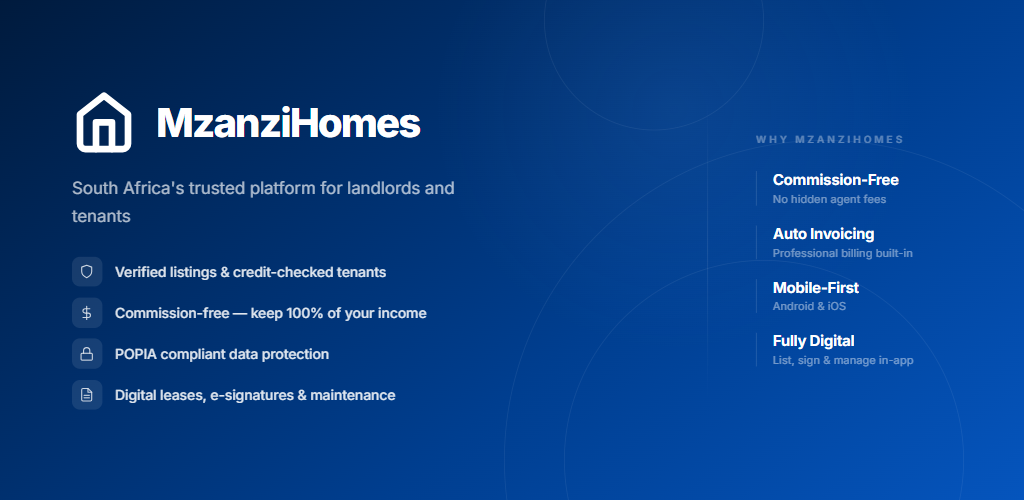
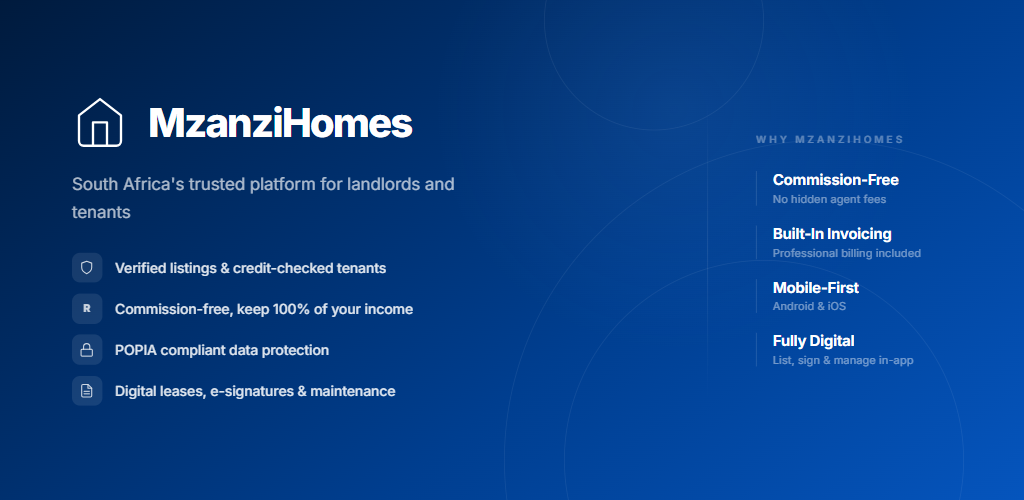
feat(play-store): finalize feature graphic and add tablet screenshots
- Feature graphic: thin logo stroke, plain R icon for commission-free,
  Built-In Invoicing label, remove em dash from commission text
- Add 7-inch tablet screenshots (1080x1920) — 5 screens
- Add 10-inch tablet screenshots (1200x2133) — 5 screens

diff --git a/docs/play-store/feature-graphic.html b/docs/play-store/feature-graphic.html
@@ -29,7 +29,7 @@
     .logo-icon{
       width:56px;height:56px;display:flex;align-items:center;justify-content:center;flex-shrink:0
     }
-    .logo-icon svg{width:56px;height:56px;stroke:white;fill:none;stroke-width:1.5;stroke-linecap:round;stroke-linejoin:round}
+    .logo-icon svg{width:56px;height:56px;stroke:white;fill:none;stroke-width:1.0;stroke-linecap:round;stroke-linejoin:round}
     .app-name{font-size:40px;font-weight:800;letter-spacing:-1.8px;line-height:1}
 
     .tagline{
@@ -91,9 +91,9 @@
         </div>
         <div class="feat">
           <div class="feat-icon">
-            <svg viewBox="0 0 24 24"><line x1="12" y1="1" x2="12" y2="23"/><path d="M17 5H9.5a3.5 3.5 0 0 0 0 7h5a3.5 3.5 0 0 1 0 7H6"/></svg>
+            <svg viewBox="0 0 24 24"><text x="12" y="17" text-anchor="middle" font-size="17" font-weight="800" style="fill:rgba(255,255,255,0.9);stroke:none" font-family="Inter,Arial,sans-serif">R</text></svg>
           </div>
-          Commission-free — keep 100% of your income
+          Commission-free, keep 100% of your income
         </div>
         <div class="feat">
           <div class="feat-icon">
@@ -118,8 +118,8 @@
           <div class="hl-label">No hidden agent fees</div>
         </div>
         <div class="hl">
-          <div class="hl-val">Auto Invoicing</div>
-          <div class="hl-label">Professional billing built-in</div>
+          <div class="hl-val">Built-In Invoicing</div>
+          <div class="hl-label">Professional billing included</div>
         </div>
         <div class="hl">
           <div class="hl-val">Mobile-First</div>

diff --git a/docs/play-store/screenshots/tablet10-4.html b/docs/play-store/screenshots/tablet10-4.html
@@ -1,0 +1,16 @@
+<!DOCTYPE html><html lang="en"><head><meta charset="UTF-8"/>
+<link href="https://fonts.googleapis.com/css2?family=Inter:wght@400;600;700;800&display=swap" rel="stylesheet">
+<style>
+*,*::before,*::after{box-sizing:border-box;margin:0;padding:0}
+body{width:1200px;height:2133px;overflow:hidden;background:linear-gradient(160deg,hsl(214,100%,14%) 0%,hsl(214,100%,32%) 100%);font-family:'Inter',-apple-system,sans-serif;display:flex;flex-direction:column;align-items:center;justify-content:center;padding:100px 80px}
+.caption{color:white;font-size:56px;font-weight:800;text-align:center;line-height:1.15;margin-bottom:64px;letter-spacing:-2px;max-width:1000px}
+.tablet{width:620px;background:#0a0a0a;border-radius:42px;padding:12px;box-shadow:0 80px 180px rgba(0,0,0,0.65),0 0 0 1.5px rgba(255,255,255,0.08),inset 0 0 0 1px rgba(255,255,255,0.04);position:relative}
+.camera{position:absolute;top:20px;left:50%;transform:translateX(-50%);width:12px;height:12px;background:#1a1a1a;border-radius:50%;z-index:10}
+.screen{border-radius:32px;overflow:hidden;width:100%}
+.screen img{width:100%;display:block}
+.brand{color:rgba(255,255,255,0.3);font-size:18px;font-weight:700;margin-top:52px;letter-spacing:3px;text-transform:uppercase}
+</style></head><body>
+<div class="caption">Manage all your properties in one place</div>
+<div class="tablet"><div class="camera"></div><div class="screen"><img src="raw-3-dashboard.png"/></div></div>
+<div class="brand">MzanziHomes</div>
+</body></html>

diff --git a/docs/play-store/screenshots/tablet7-4.html b/docs/play-store/screenshots/tablet7-4.html
@@ -1,0 +1,16 @@
+<!DOCTYPE html><html lang="en"><head><meta charset="UTF-8"/>
+<link href="https://fonts.googleapis.com/css2?family=Inter:wght@400;600;700;800&display=swap" rel="stylesheet">
+<style>
+*,*::before,*::after{box-sizing:border-box;margin:0;padding:0}
+body{width:1080px;height:1920px;overflow:hidden;background:linear-gradient(160deg,hsl(214,100%,14%) 0%,hsl(214,100%,32%) 100%);font-family:'Inter',-apple-system,sans-serif;display:flex;flex-direction:column;align-items:center;justify-content:center;padding:80px 60px}
+.caption{color:white;font-size:48px;font-weight:800;text-align:center;line-height:1.15;margin-bottom:56px;letter-spacing:-2px;max-width:900px}
+.tablet{width:520px;background:#0a0a0a;border-radius:36px;padding:10px;box-shadow:0 60px 140px rgba(0,0,0,0.65),0 0 0 1.5px rgba(255,255,255,0.08),inset 0 0 0 1px rgba(255,255,255,0.04);position:relative}
+.camera{position:absolute;top:18px;left:50%;transform:translateX(-50%);width:10px;height:10px;background:#1a1a1a;border-radius:50%;z-index:10}
+.screen{border-radius:28px;overflow:hidden;width:100%}
+.screen img{width:100%;display:block}
+.brand{color:rgba(255,255,255,0.3);font-size:16px;font-weight:700;margin-top:44px;letter-spacing:3px;text-transform:uppercase}
+</style></head><body>
+<div class="caption">Manage all your properties in one place</div>
+<div class="tablet"><div class="camera"></div><div class="screen"><img src="raw-3-dashboard.png"/></div></div>
+<div class="brand">MzanziHomes</div>
+</body></html>

diff --git a/docs/play-store/screenshots/tablet10-3.html b/docs/play-store/screenshots/tablet10-3.html
@@ -1,0 +1,16 @@
+<!DOCTYPE html><html lang="en"><head><meta charset="UTF-8"/>
+<link href="https://fonts.googleapis.com/css2?family=Inter:wght@400;600;700;800&display=swap" rel="stylesheet">
+<style>
+*,*::before,*::after{box-sizing:border-box;margin:0;padding:0}
+body{width:1200px;height:2133px;overflow:hidden;background:linear-gradient(160deg,hsl(214,100%,14%) 0%,hsl(214,100%,32%) 100%);font-family:'Inter',-apple-system,sans-serif;display:flex;flex-direction:column;align-items:center;justify-content:center;padding:100px 80px}
+.caption{color:white;font-size:56px;font-weight:800;text-align:center;line-height:1.15;margin-bottom:64px;letter-spacing:-2px;max-width:1000px}
+.tablet{width:620px;background:#0a0a0a;border-radius:42px;padding:12px;box-shadow:0 80px 180px rgba(0,0,0,0.65),0 0 0 1.5px rgba(255,255,255,0.08),inset 0 0 0 1px rgba(255,255,255,0.04);position:relative}
+.camera{position:absolute;top:20px;left:50%;transform:translateX(-50%);width:12px;height:12px;background:#1a1a1a;border-radius:50%;z-index:10}
+.screen{border-radius:32px;overflow:hidden;width:100%}
+.screen img{width:100%;display:block}
+.brand{color:rgba(255,255,255,0.3);font-size:18px;font-weight:700;margin-top:52px;letter-spacing:3px;text-transform:uppercase}
+</style></head><body>
+<div class="caption">Everything you need to decide</div>
+<div class="tablet"><div class="camera"></div><div class="screen"><img src="raw-2-property-detail.png"/></div></div>
+<div class="brand">MzanziHomes</div>
+</body></html>

diff --git a/docs/play-store/screenshots/tablet10-1.html b/docs/play-store/screenshots/tablet10-1.html
@@ -1,0 +1,16 @@
+<!DOCTYPE html><html lang="en"><head><meta charset="UTF-8"/>
+<link href="https://fonts.googleapis.com/css2?family=Inter:wght@400;600;700;800&display=swap" rel="stylesheet">
+<style>
+*,*::before,*::after{box-sizing:border-box;margin:0;padding:0}
+body{width:1200px;height:2133px;overflow:hidden;background:linear-gradient(160deg,hsl(214,100%,14%) 0%,hsl(214,100%,32%) 100%);font-family:'Inter',-apple-system,sans-serif;display:flex;flex-direction:column;align-items:center;justify-content:center;padding:100px 80px}
+.caption{color:white;font-size:56px;font-weight:800;text-align:center;line-height:1.15;margin-bottom:64px;letter-spacing:-2px;max-width:1000px}
+.tablet{width:620px;background:#0a0a0a;border-radius:42px;padding:12px;box-shadow:0 80px 180px rgba(0,0,0,0.65),0 0 0 1.5px rgba(255,255,255,0.08),inset 0 0 0 1px rgba(255,255,255,0.04);position:relative}
+.camera{position:absolute;top:20px;left:50%;transform:translateX(-50%);width:12px;height:12px;background:#1a1a1a;border-radius:50%;z-index:10}
+.screen{border-radius:32px;overflow:hidden;width:100%}
+.screen img{width:100%;display:block}
+.brand{color:rgba(255,255,255,0.3);font-size:18px;font-weight:700;margin-top:52px;letter-spacing:3px;text-transform:uppercase}
+</style></head><body>
+<div class="caption">Find your perfect home in South Africa</div>
+<div class="tablet"><div class="camera"></div><div class="screen"><img src="raw-0-home.png"/></div></div>
+<div class="brand">MzanziHomes</div>
+</body></html>

diff --git a/docs/play-store/screenshots/tablet10-2.html b/docs/play-store/screenshots/tablet10-2.html
@@ -1,0 +1,16 @@
+<!DOCTYPE html><html lang="en"><head><meta charset="UTF-8"/>
+<link href="https://fonts.googleapis.com/css2?family=Inter:wght@400;600;700;800&display=swap" rel="stylesheet">
+<style>
+*,*::before,*::after{box-sizing:border-box;margin:0;padding:0}
+body{width:1200px;height:2133px;overflow:hidden;background:linear-gradient(160deg,hsl(214,100%,14%) 0%,hsl(214,100%,32%) 100%);font-family:'Inter',-apple-system,sans-serif;display:flex;flex-direction:column;align-items:center;justify-content:center;padding:100px 80px}
+.caption{color:white;font-size:56px;font-weight:800;text-align:center;line-height:1.15;margin-bottom:64px;letter-spacing:-2px;max-width:1000px}
+.tablet{width:620px;background:#0a0a0a;border-radius:42px;padding:12px;box-shadow:0 80px 180px rgba(0,0,0,0.65),0 0 0 1.5px rgba(255,255,255,0.08),inset 0 0 0 1px rgba(255,255,255,0.04);position:relative}
+.camera{position:absolute;top:20px;left:50%;transform:translateX(-50%);width:12px;height:12px;background:#1a1a1a;border-radius:50%;z-index:10}
+.screen{border-radius:32px;overflow:hidden;width:100%}
+.screen img{width:100%;display:block}
+.brand{color:rgba(255,255,255,0.3);font-size:18px;font-weight:700;margin-top:52px;letter-spacing:3px;text-transform:uppercase}
+</style></head><body>
+<div class="caption">Browse verified rentals near you</div>
+<div class="tablet"><div class="camera"></div><div class="screen"><img src="raw-1-properties.png"/></div></div>
+<div class="brand">MzanziHomes</div>
+</body></html>

diff --git a/docs/play-store/screenshots/tablet7-3.html b/docs/play-store/screenshots/tablet7-3.html
@@ -1,0 +1,16 @@
+<!DOCTYPE html><html lang="en"><head><meta charset="UTF-8"/>
+<link href="https://fonts.googleapis.com/css2?family=Inter:wght@400;600;700;800&display=swap" rel="stylesheet">
+<style>
+*,*::before,*::after{box-sizing:border-box;margin:0;padding:0}
+body{width:1080px;height:1920px;overflow:hidden;background:linear-gradient(160deg,hsl(214,100%,14%) 0%,hsl(214,100%,32%) 100%);font-family:'Inter',-apple-system,sans-serif;display:flex;flex-direction:column;align-items:center;justify-content:center;padding:80px 60px}
+.caption{color:white;font-size:48px;font-weight:800;text-align:center;line-height:1.15;margin-bottom:56px;letter-spacing:-2px;max-width:900px}
+.tablet{width:520px;background:#0a0a0a;border-radius:36px;padding:10px;box-shadow:0 60px 140px rgba(0,0,0,0.65),0 0 0 1.5px rgba(255,255,255,0.08),inset 0 0 0 1px rgba(255,255,255,0.04);position:relative}
+.camera{position:absolute;top:18px;left:50%;transform:translateX(-50%);width:10px;height:10px;background:#1a1a1a;border-radius:50%;z-index:10}
+.screen{border-radius:28px;overflow:hidden;width:100%}
+.screen img{width:100%;display:block}
+.brand{color:rgba(255,255,255,0.3);font-size:16px;font-weight:700;margin-top:44px;letter-spacing:3px;text-transform:uppercase}
+</style></head><body>
+<div class="caption">Everything you need to decide</div>
+<div class="tablet"><div class="camera"></div><div class="screen"><img src="raw-2-property-detail.png"/></div></div>
+<div class="brand">MzanziHomes</div>
+</body></html>

diff --git a/docs/play-store/screenshots/tablet7-1.html b/docs/play-store/screenshots/tablet7-1.html
@@ -1,0 +1,16 @@
+<!DOCTYPE html><html lang="en"><head><meta charset="UTF-8"/>
+<link href="https://fonts.googleapis.com/css2?family=Inter:wght@400;600;700;800&display=swap" rel="stylesheet">
+<style>
+*,*::before,*::after{box-sizing:border-box;margin:0;padding:0}
+body{width:1080px;height:1920px;overflow:hidden;background:linear-gradient(160deg,hsl(214,100%,14%) 0%,hsl(214,100%,32%) 100%);font-family:'Inter',-apple-system,sans-serif;display:flex;flex-direction:column;align-items:center;justify-content:center;padding:80px 60px}
+.caption{color:white;font-size:48px;font-weight:800;text-align:center;line-height:1.15;margin-bottom:56px;letter-spacing:-2px;max-width:900px}
+.tablet{width:520px;background:#0a0a0a;border-radius:36px;padding:10px;box-shadow:0 60px 140px rgba(0,0,0,0.65),0 0 0 1.5px rgba(255,255,255,0.08),inset 0 0 0 1px rgba(255,255,255,0.04);position:relative}
+.camera{position:absolute;top:18px;left:50%;transform:translateX(-50%);width:10px;height:10px;background:#1a1a1a;border-radius:50%;z-index:10}
+.screen{border-radius:28px;overflow:hidden;width:100%}
+.screen img{width:100%;display:block}
+.brand{color:rgba(255,255,255,0.3);font-size:16px;font-weight:700;margin-top:44px;letter-spacing:3px;text-transform:uppercase}
+</style></head><body>
+<div class="caption">Find your perfect home in South Africa</div>
+<div class="tablet"><div class="camera"></div><div class="screen"><img src="raw-0-home.png"/></div></div>
+<div class="brand">MzanziHomes</div>
+</body></html>

diff --git a/docs/play-store/screenshots/tablet7-2.html b/docs/play-store/screenshots/tablet7-2.html
@@ -1,0 +1,16 @@
+<!DOCTYPE html><html lang="en"><head><meta charset="UTF-8"/>
+<link href="https://fonts.googleapis.com/css2?family=Inter:wght@400;600;700;800&display=swap" rel="stylesheet">
+<style>
+*,*::before,*::after{box-sizing:border-box;margin:0;padding:0}
+body{width:1080px;height:1920px;overflow:hidden;background:linear-gradient(160deg,hsl(214,100%,14%) 0%,hsl(214,100%,32%) 100%);font-family:'Inter',-apple-system,sans-serif;display:flex;flex-direction:column;align-items:center;justify-content:center;padding:80px 60px}
+.caption{color:white;font-size:48px;font-weight:800;text-align:center;line-height:1.15;margin-bottom:56px;letter-spacing:-2px;max-width:900px}
+.tablet{width:520px;background:#0a0a0a;border-radius:36px;padding:10px;box-shadow:0 60px 140px rgba(0,0,0,0.65),0 0 0 1.5px rgba(255,255,255,0.08),inset 0 0 0 1px rgba(255,255,255,0.04);position:relative}
+.camera{position:absolute;top:18px;left:50%;transform:translateX(-50%);width:10px;height:10px;background:#1a1a1a;border-radius:50%;z-index:10}
+.screen{border-radius:28px;overflow:hidden;width:100%}
+.screen img{width:100%;display:block}
+.brand{color:rgba(255,255,255,0.3);font-size:16px;font-weight:700;margin-top:44px;letter-spacing:3px;text-transform:uppercase}
+</style></head><body>
+<div class="caption">Browse verified rentals near you</div>
+<div class="tablet"><div class="camera"></div><div class="screen"><img src="raw-1-properties.png"/></div></div>
+<div class="brand">MzanziHomes</div>
+</body></html>

diff --git a/docs/play-store/screenshots/tablet10-5.html b/docs/play-store/screenshots/tablet10-5.html
@@ -1,0 +1,16 @@
+<!DOCTYPE html><html lang="en"><head><meta charset="UTF-8"/>
+<link href="https://fonts.googleapis.com/css2?family=Inter:wght@400;600;700;800&display=swap" rel="stylesheet">
+<style>
+*,*::before,*::after{box-sizing:border-box;margin:0;padding:0}
+body{width:1200px;height:2133px;overflow:hidden;background:linear-gradient(160deg,hsl(214,100%,14%) 0%,hsl(214,100%,32%) 100%);font-family:'Inter',-apple-system,sans-serif;display:flex;flex-direction:column;align-items:center;justify-content:center;padding:100px 80px}
+.caption{color:white;font-size:56px;font-weight:800;text-align:center;line-height:1.15;margin-bottom:64px;letter-spacing:-2px;max-width:1000px}
+.tablet{width:620px;background:#0a0a0a;border-radius:42px;padding:12px;box-shadow:0 80px 180px rgba(0,0,0,0.65),0 0 0 1.5px rgba(255,255,255,0.08),inset 0 0 0 1px rgba(255,255,255,0.04);position:relative}
+.camera{position:absolute;top:20px;left:50%;transform:translateX(-50%);width:12px;height:12px;background:#1a1a1a;border-radius:50%;z-index:10}
+.screen{border-radius:32px;overflow:hidden;width:100%}
+.screen img{width:100%;display:block}
+.brand{color:rgba(255,255,255,0.3);font-size:18px;font-weight:700;margin-top:52px;letter-spacing:3px;text-transform:uppercase}
+</style></head><body>
+<div class="caption">Get started in seconds</div>
+<div class="tablet"><div class="camera"></div><div class="screen"><img src="raw-auth.png"/></div></div>
+<div class="brand">MzanziHomes</div>
+</body></html>

diff --git a/docs/play-store/screenshots/tablet7-5.html b/docs/play-store/screenshots/tablet7-5.html
@@ -1,0 +1,16 @@
+<!DOCTYPE html><html lang="en"><head><meta charset="UTF-8"/>
+<link href="https://fonts.googleapis.com/css2?family=Inter:wght@400;600;700;800&display=swap" rel="stylesheet">
+<style>
+*,*::before,*::after{box-sizing:border-box;margin:0;padding:0}
+body{width:1080px;height:1920px;overflow:hidden;background:linear-gradient(160deg,hsl(214,100%,14%) 0%,hsl(214,100%,32%) 100%);font-family:'Inter',-apple-system,sans-serif;display:flex;flex-direction:column;align-items:center;justify-content:center;padding:80px 60px}
+.caption{color:white;font-size:48px;font-weight:800;text-align:center;line-height:1.15;margin-bottom:56px;letter-spacing:-2px;max-width:900px}
+.tablet{width:520px;background:#0a0a0a;border-radius:36px;padding:10px;box-shadow:0 60px 140px rgba(0,0,0,0.65),0 0 0 1.5px rgba(255,255,255,0.08),inset 0 0 0 1px rgba(255,255,255,0.04);position:relative}
+.camera{position:absolute;top:18px;left:50%;transform:translateX(-50%);width:10px;height:10px;background:#1a1a1a;border-radius:50%;z-index:10}
+.screen{border-radius:28px;overflow:hidden;width:100%}
+.screen img{width:100%;display:block}
+.brand{color:rgba(255,255,255,0.3);font-size:16px;font-weight:700;margin-top:44px;letter-spacing:3px;text-transform:uppercase}
+</style></head><body>
+<div class="caption">Get started in seconds</div>
+<div class="tablet"><div class="camera"></div><div class="screen"><img src="raw-auth.png"/></div></div>
+<div class="brand">MzanziHomes</div>
+</body></html>
